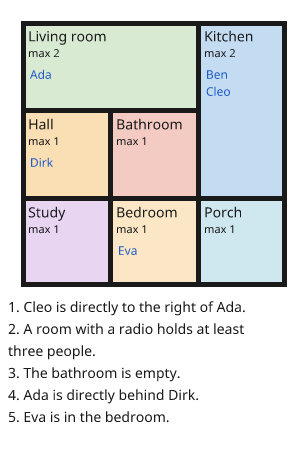
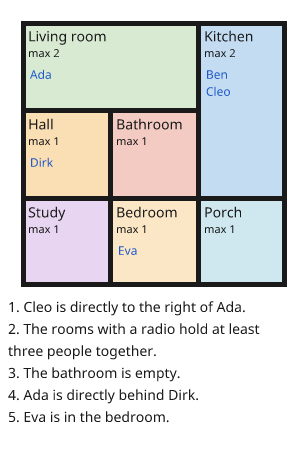
Read a group count as a group, so a tag count cannot claim one room holds it all
A count over a tag covers every room of the group, and phrases like "a room with a radio" made the sentence claim a single room held the people, which no room with that capacity could. Words: may now give a second form after | for counts, falling back to the tag name, and the sentence says together/samen. The rooms examples use it, and the format guide and tests pin the wording.

Changed region(s): [[0.0584, 0.697, 0.8474, 0.7879]]

diff --git a/src/csp/rooms.py b/src/csp/rooms.py
@@ -138,16 +138,23 @@ class Population:
         return compare(sum(room in rooms for room in where.values()), self.operator, self.number)
 
     def describe(self, puzzle: "Puzzle") -> str:
-        place = puzzle.phrase(self.area)
+        group = len(puzzle.areas(self.area)) > 1
+        place = puzzle.group_phrase(self.area) if group else puzzle.phrase(self.area)
         place = place[:1].upper() + place[1:]
         if self.operator == "=" and self.number == 0:
-            return f"{place} is leeg." if puzzle.language == "nl" else f"{place} is empty."
+            if puzzle.language == "nl":
+                return f"{place} zijn leeg." if group else f"{place} is leeg."
+            return f"{place} are empty." if group else f"{place} is empty."
         word = number_word(puzzle.language, self.number)
+        count = COUNT_WORDS[puzzle.language][self.operator]
         if puzzle.language == "nl":
             people = "persoon" if self.number == 1 else "personen"
-            return f"{place} bevat {COUNT_WORDS['nl'][self.operator]} {word} {people}."
+            verb = "bevatten samen" if group else "bevat"
+            return f"{place} {verb} {count} {word} {people}."
         people = "person" if self.number == 1 else "people"
-        return f"{place} holds {COUNT_WORDS['en'][self.operator]} {word} {people}."
+        if group:
+            return f"{place} hold {count} {word} {people} together."
+        return f"{place} holds {count} {word} {people}."
 
 
 @dataclass(frozen=True)
@@ -250,6 +257,7 @@ class Puzzle:
     words: dict[str, str] = field(default_factory=dict)
     wording: dict[int, str] = field(default_factory=dict)
     language: str = "en"
+    group_words: dict[str, str] = field(default_factory=dict)
 
     def room(self, key: str) -> Room:
         """The room with that key."""
@@ -264,13 +272,22 @@ class Puzzle:
         raise ValueError(f"unknown area {selector!r}")
 
     def phrase(self, selector: str) -> str:
-        """How a room or group reads inside a sentence."""
+        """How a room or group reads inside a sentence about one person."""
         if selector in self.words:
             return self.words[selector]
         if selector in self.tags:
             return selector.replace("_", " ")
         article = "de " if self.language == "nl" else "the "
         return article + self.room(selector).label
+
+    def group_phrase(self, selector: str) -> str:
+        """How a group reads in a count, which speaks for several rooms at once."""
+        if selector in self.group_words:
+            return self.group_words[selector]
+        if selector in self.tags:
+            name = selector.replace("_", " ")
+            return f"de {name}kamers" if self.language == "nl" else f"the {name} rooms"
+        return self.phrase(selector)
 
     def sentence(self, number: int) -> str:
         """The clue's own sentence, with the file's `| wording` if it has one."""
@@ -394,15 +411,19 @@ def parse(text: str) -> Puzzle:
     if sum(room.capacity for room in rooms) < len(people):
         raise ValueError("the rooms have less room than the number of people")
     words: dict[str, str] = {}
+    group_words: dict[str, str] = {}
     for line in sections.get("Words", []):
         name, separator, phrase = line.partition(":")
-        if not separator or not name.strip() or not phrase.strip():
-            raise ValueError(f"bad word {line!r}, expected 'name: words'")
-        words[name.strip()] = phrase.strip()
+        single, _, group = phrase.partition("|")
+        if not separator or not name.strip() or not single.strip():
+            raise ValueError(f"bad word {line!r}, expected 'name: words [| words for a group]'")
+        words[name.strip()] = single.strip()
+        if group.strip():
+            group_words[name.strip()] = group.strip()
     language = (sections.get("Language") or ["en"])[0].casefold()
     if language not in NUMBERS:
         raise ValueError(f"unknown Language {language!r}")
-    empty = Puzzle(rooms, plan, tags, people, (), words, {}, language)
+    empty = Puzzle(rooms, plan, tags, people, (), words, {}, language, group_words)
     clues: list[ClueType] = []
     wording: dict[int, str] = {}
     for number, line in enumerate(sections.get("Clues", []), 1):
@@ -414,7 +435,7 @@ def parse(text: str) -> Puzzle:
             wording[number] = text.strip()
     if not clues:
         raise ValueError("Clues: needs at least one clue")
-    return Puzzle(rooms, plan, tags, people, tuple(clues), words, wording, language)
+    return Puzzle(rooms, plan, tags, people, tuple(clues), words, wording, language, group_words)
 
 
 def parse_clue(line: str, puzzle: Puzzle) -> ClueType:

diff --git a/tests/test_rooms.py b/tests/test_rooms.py
@@ -38,6 +38,11 @@ def puzzle_with(clues: str) -> str:
     return BASE + clues
 
 
+def with_words(text: str, *lines: str) -> str:
+    """The puzzle with a `Words:` section, which a group count uses for its wording."""
+    return text.replace("Tags:\n", "Words:\n" + "\n".join(lines) + "\n\nTags:\n")
+
+
 def test_the_plan_rooms_tags_and_people_are_read():
     puzzle = rooms.parse(puzzle_with("Ada in area:c\n"))
     assert [room.key for room in puzzle.rooms] == ["a", "b", "c", "d", "e"]
@@ -188,3 +193,33 @@ def test_a_clue_line_can_carry_its_own_wording():
     puzzle = rooms.parse(puzzle_with("Ada in area:c | Ada zat in de keuken.\n"))
     assert puzzle.sentence(1) == "Ada zat in de keuken."
     assert puzzle.clue_lines == ["Ada zat in de keuken."]
+
+
+def test_a_group_count_speaks_for_all_its_rooms_together():
+    """A count over a tag covers every room of the group, so it reads as a group."""
+    group = with_words(
+        BASE,
+        "window: a room with a window | the rooms with a window",
+        "clock: a room with a clock | the rooms with a clock",
+    )
+    puzzle = rooms.parse(group + "Clues:\ncount (people in area:window) >= 2\n")
+    assert puzzle.sentence(1) == "The rooms with a window hold at least two people together."
+    assert puzzle.areas("window") == ("a", "c", "e")
+    single = rooms.parse(group + "Clues:\ncount (people in area:a) = 1\n")
+    assert single.sentence(1) == "The living room holds exactly one person."
+    membership = rooms.parse(group + "Clues:\nBen in area:window\n")
+    assert membership.sentence(1) == "Ben is in a room with a window."
+
+
+def test_a_group_count_falls_back_to_its_tag_name_and_dutch_reads_right():
+    text = with_words(
+        BASE.replace("Language: en", "Language: nl"),
+        "window: een kamer met een raam | de kamers met een raam",
+    )
+    puzzle = rooms.parse(text + "Clues:\ncount (people in area:window) = 0\n")
+    assert puzzle.sentence(1) == "De kamers met een raam zijn leeg."
+    plain = rooms.parse(
+        BASE.replace("Language: en", "Language: nl")
+        + "Clues:\ncount (people in area:window) >= 1\n"
+    )
+    assert plain.sentence(1) == "De windowkamers bevatten samen minstens één persoon."

diff --git a/docs/model-and-puzzle-formats.md b/docs/model-and-puzzle-formats.md
@@ -214,12 +214,12 @@ Ada dir:up Cleo
 exactly 1 of (Ada in area:e; Ben in area:e)
 ```
 
-`Rooms:` gives each room's capacity, colour and label; `Tags:` groups rooms so one clue can name the group. `Words:` renames a room or group in the sentences the solver writes, and a clue line may end in `| wording`. Clause forms:
+`Rooms:` gives each room's capacity, colour and label; `Tags:` groups rooms so one clue can name the group. `Words:` renames a room or group in the sentences the solver writes, and a clue line may end in `| wording`. An entry for a group may give a second form after `|` for counts, which speak for the whole group at once: with `radio: a room with a radio | the rooms with a radio`, a person is "in a room with a radio" while a count says "The rooms with a radio hold three people together", never "a room holds three" when no single room can. Clause forms:
 
 | Clause | Meaning |
 |---|---|
 | `X in area:A` / `not (X in area:A)` | X stands in one of A's rooms, or in none of them |
-| `count (people in area:A) <op> n` | how many people A holds (`=`, `<`, `>`, `<=`, `>=`) |
+| `count (people in area:A) <op> n` | how many people A holds (`=`, `<`, `>`, `<=`, `>=`); for a group this counts every room of it together |
 | `X alone` / `not (X alone)` | X shares a room with nobody, or with at least one other |
 | `X together Y` / `X apart Y` | X and Y do or do not share a room |
 | `exactly n of (clause; clause; …)` | how many of these room clauses hold |
